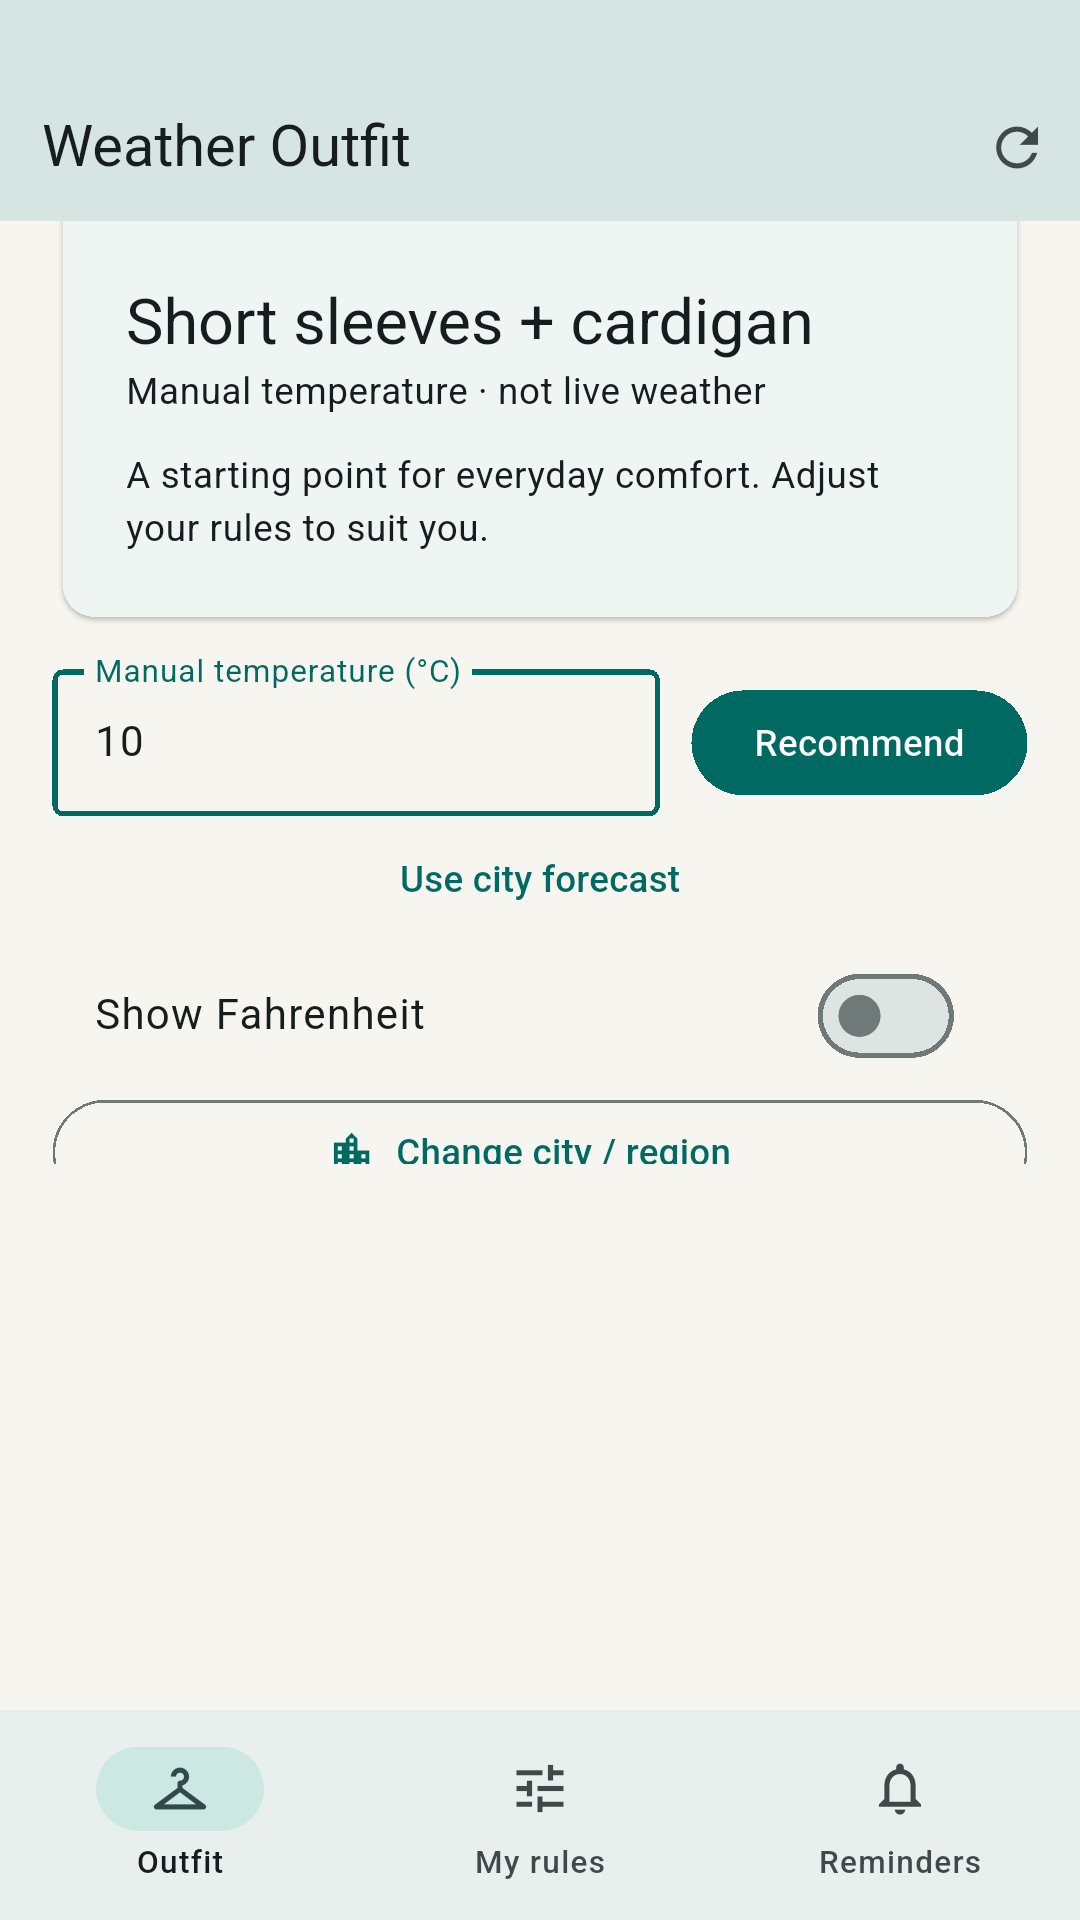
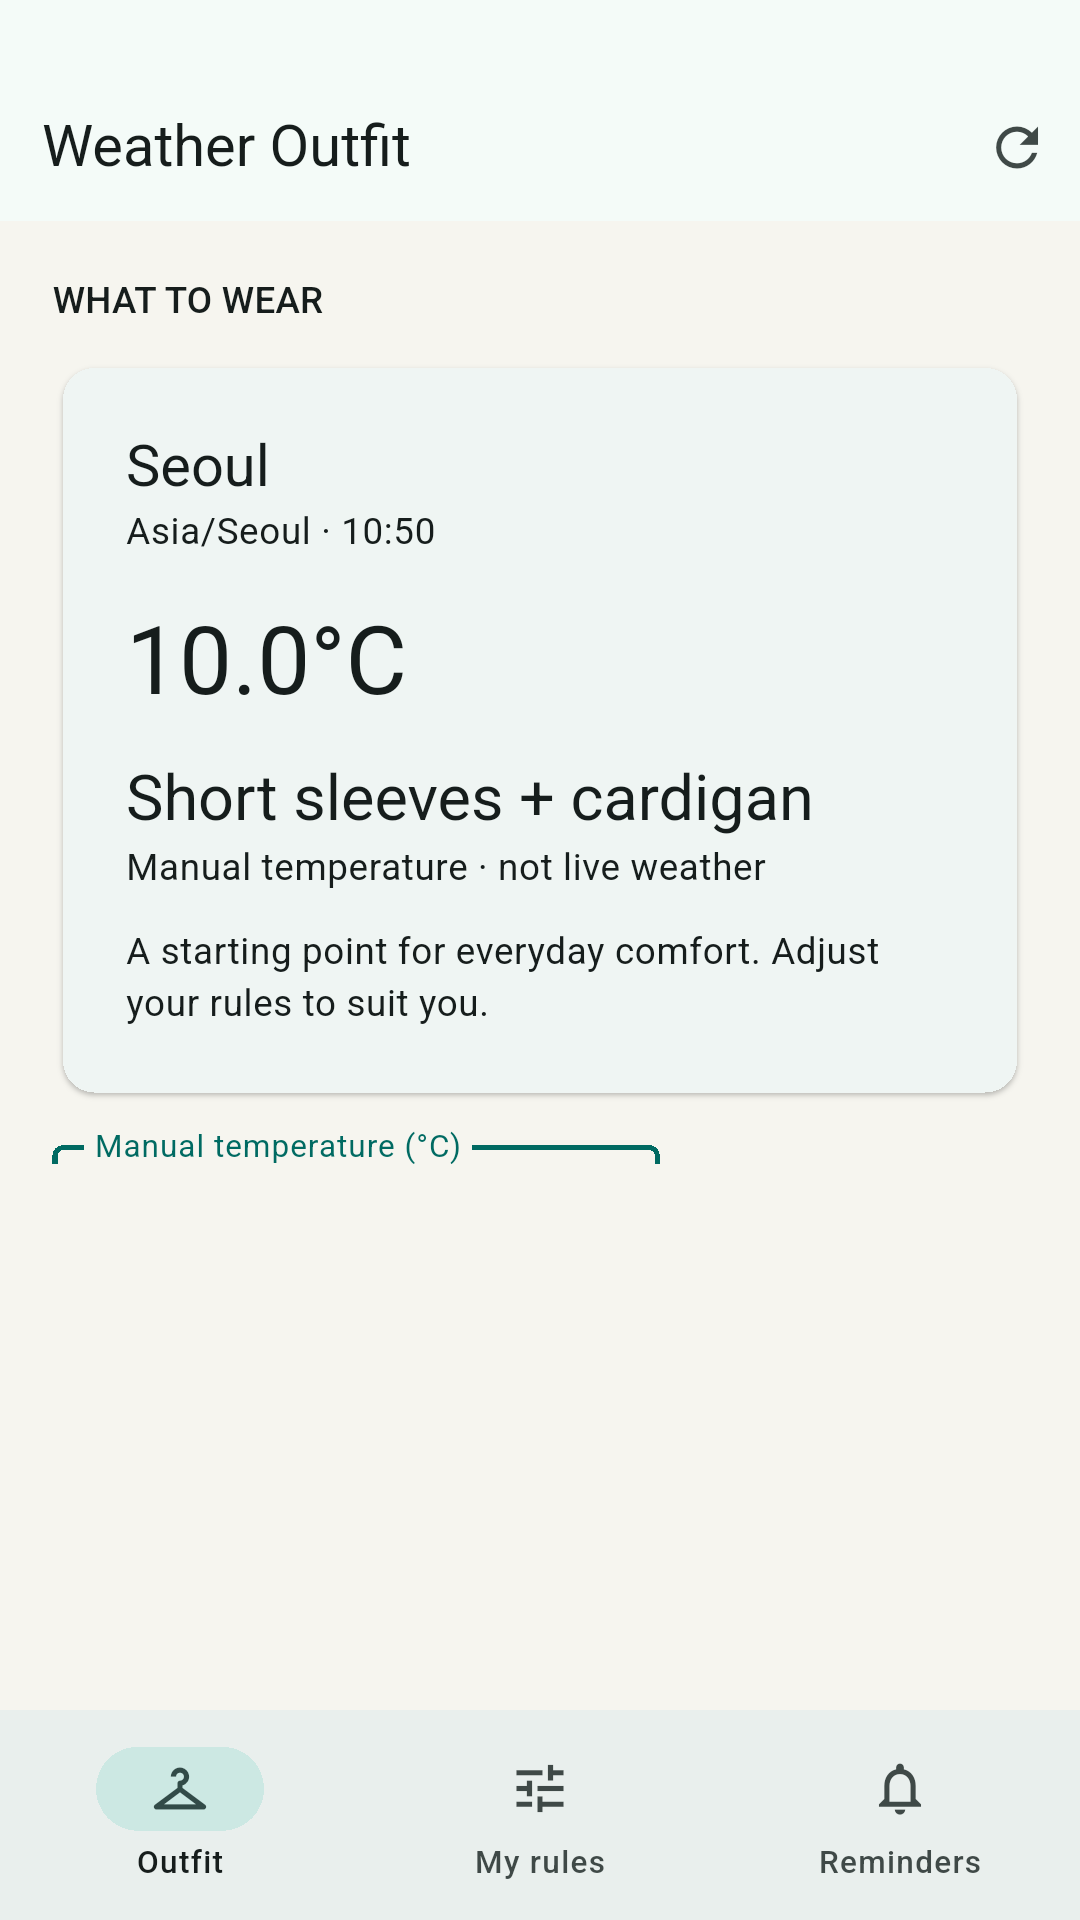
Verify native forecasts and reminder delivery and refresh UI evidence

diff --git a/integration_test/services_test.dart b/integration_test/services_test.dart
@@ -1,0 +1,66 @@
+import 'dart:io';
+
+import 'package:flutter_local_notifications/flutter_local_notifications.dart';
+import 'package:flutter_test/flutter_test.dart';
+import 'package:integration_test/integration_test.dart';
+import 'package:shared_preferences/shared_preferences.dart';
+import 'package:timezone/data/latest.dart' as zones;
+import 'package:weather_outfit/model.dart';
+import 'package:weather_outfit/reminders.dart';
+import 'package:weather_outfit/weather.dart';
+
+void main() {
+  IntegrationTestWidgetsFlutterBinding.ensureInitialized();
+  testWidgets('Native weather cache and fourteen cancellable local reminders', (
+    t,
+  ) async {
+    zones.initializeTimeZones();
+    final prefs = await SharedPreferences.getInstance();
+    final weather = WeatherService(prefs);
+    await weather.load(cities.first);
+    expect(weather.points, isNotEmpty, reason: weather.error);
+    expect(weather.fetchedAt, isNotNull);
+    final first = weather.fetchedAt;
+    await weather.load(cities.first);
+    expect(weather.cached, isTrue);
+    expect(weather.fetchedAt, first);
+    final reminders = Reminders();
+    await reminders.initialize();
+    expect(reminders.allowed, isTrue);
+    final settings = Settings()
+      ..morning = true
+      ..evening = true;
+    expect(
+      await reminders.schedule(settings, weather.points, weather.fetchedAt),
+      14,
+    );
+    expect((await reminders.plugin.pendingNotificationRequests()).length, 14);
+    settings.morning = false;
+    settings.evening = false;
+    expect(
+      await reminders.schedule(settings, weather.points, weather.fetchedAt),
+      0,
+    );
+    expect(await reminders.plugin.pendingNotificationRequests(), isEmpty);
+    if (Platform.isAndroid) {
+      await reminders.plugin.show(
+        99,
+        'Outfit test',
+        'Notification delivery check',
+        const NotificationDetails(
+          android: AndroidNotificationDetails(
+            'outfit_reminders',
+            'Outfit reminders',
+          ),
+        ),
+      );
+      expect(
+        (await reminders.plugin.getActiveNotifications()).any(
+          (n) => n.id == 99,
+        ),
+        isTrue,
+      );
+      await reminders.plugin.cancel(99);
+    }
+  });
+}

diff --git a/lib/ads.dart b/lib/ads.dart
@@ -46,7 +46,7 @@ class AdsController extends ChangeNotifier {
       ready = true;
       notifyListeners();
     } catch (_) {
-      /* Offline consent or ads must not stop the score sheet. */
+      /* Offline consent or ads must not stop outfit recommendations. */
     }
   }
 
@@ -57,6 +57,8 @@ class AdsController extends ChangeNotifier {
       ready = false;
       notifyListeners();
     } else if (!ready) {
+      await MobileAds.instance.initialize();
+      if (_closed) return;
       ready = true;
       notifyListeners();
     }

diff --git a/integration_test/native_flow_test.dart b/integration_test/native_flow_test.dart
@@ -23,6 +23,8 @@ void main() {
       await t.tap(find.text('Recommend'));
       await t.pumpAndSettle();
       expect(find.text('Short sleeves + cardigan'), findsOneWidget);
+      await t.drag(find.byType(ListView), const Offset(0, 1200));
+      await t.pumpAndSettle();
       await binding.takeScreenshot('01-outfit-en');
       await t.tap(find.text('My rules'));
       await t.pumpAndSettle();
